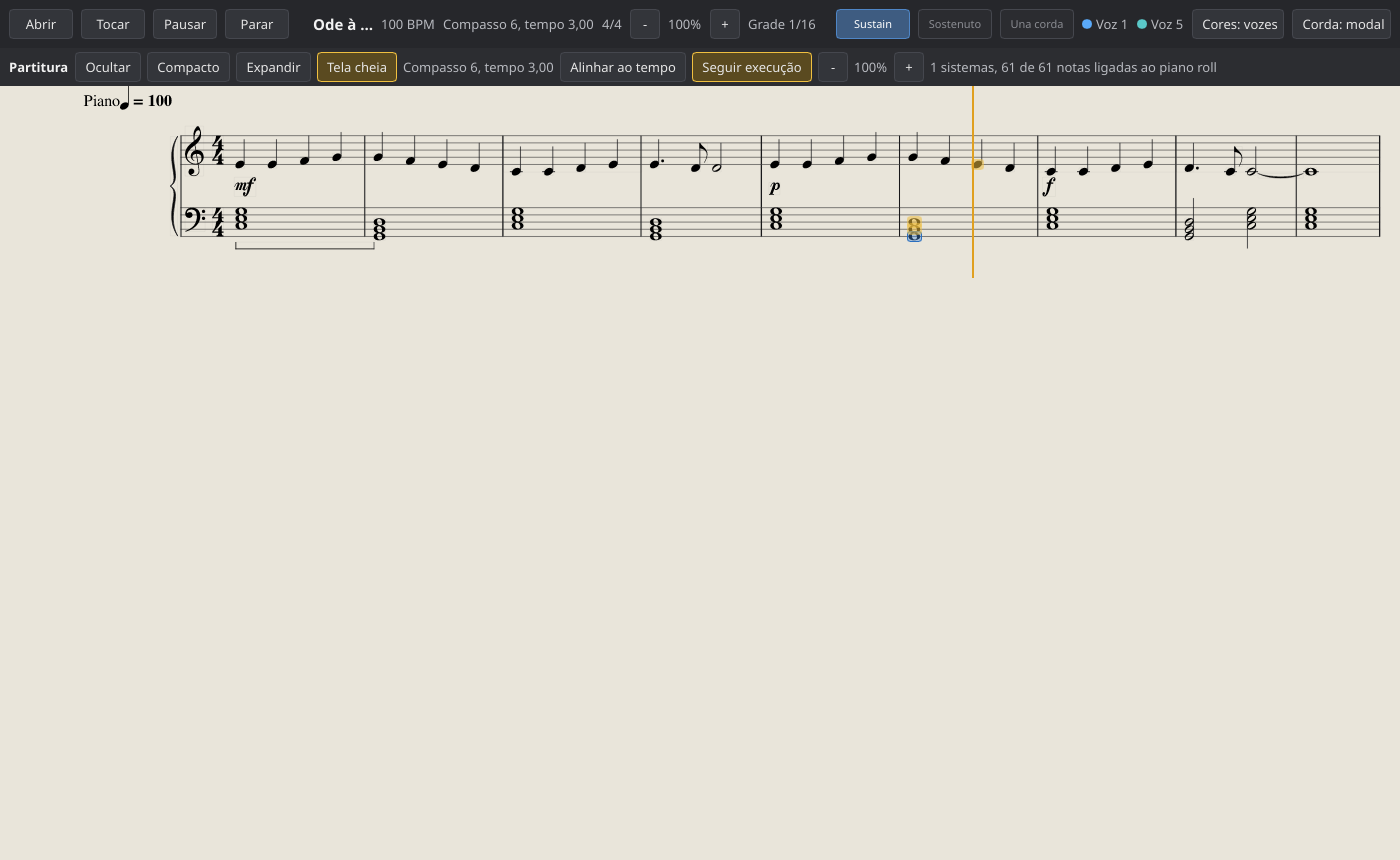
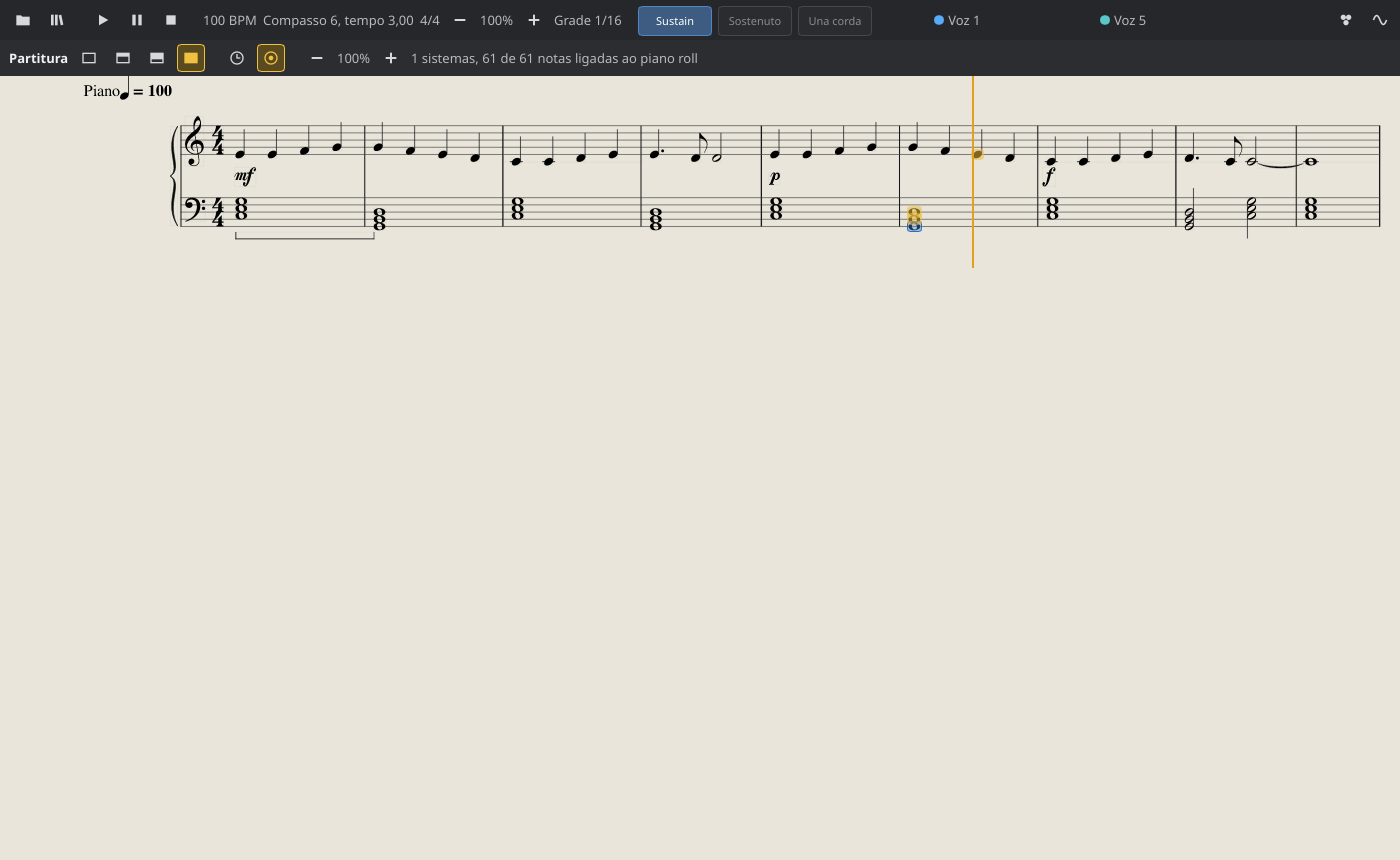
Barras com icones pequenos e titulo no painel da direita
- Abrir, acervo, transporte, zoom, cores e modelo de corda viram icones
  de 28 px; o nome aparece na barra ao passar o mouse
- barra da partitura com icones para os modos, alinhar, seguir e zoom
- titulo da peca no topo da coluna da direita, que ganha barra de rolagem
- README e capturas atualizados

Changed region(s): [[0.0, 0.0, 1.0, 0.3023], [0.86, 0.0, 1.0, 0.0605]]

diff --git a/README.md b/README.md
@@ -75,15 +75,18 @@ Dó grave enquanto a direita toca staccato):
 Visualizador temporal da partitura tocada pelo player, inspirado no piano
 roll de DAWs, em [Slint](https://slint.dev):
 
-- barra superior: abrir, acervo, tocar, pausar, parar, andamento, posição (compasso e
-  tempo), fórmula de compasso, zoom, grade, luzes dos três pedais, legenda
-  de cores, cores por voz ou por mão, modelo de corda;
+- barra superior: ícones pequenos para abrir, acervo, tocar, pausar,
+  parar, zoom, cores por voz ou por mão e modelo de corda (o nome de cada
+  ícone aparece na barra ao passar o mouse), andamento, posição (compasso e
+  tempo), fórmula de compasso, grade, luzes dos três pedais e legenda de
+  cores;
 - régua de compassos (clique para ir para aquele ponto);
 - teclado vertical das 88 teclas (as que soam ficam douradas);
 - roll: cada nota com a cor da voz (ou da mão) e o dedo escolhido pelo
   player; as já tocadas ficam apagadas, as que soam brilham; playhead
   dourado;
-- coluna da direita em abas: **Interpretação** (os quatro perfis do
+- coluna da direita, com o título da peça no topo e barra de rolagem
+  quando não cabe, em abas: **Interpretação** (os quatro perfis do
   [motor de expressão](#motor-de-expressão-e-emoção-percebida) e o plano
   Valência x Ativação), **Nota** (inspetor: nota, frequência, compasso,
   duração, voz, mão, dedo, velocity; abre sozinha ao clicar numa nota ou
@@ -116,11 +119,11 @@ duração, profundidade, se veio da partitura ou do pé e o efeito no piano.
 | clique numa nota      | detalhes no inspetor                   |
 | clique num pedal      | qual pedal, como e quando, no inspetor |
 | Interpretação         | trocar o perfil (continua do mesmo ponto da partitura) |
-| botão Abrir           | escolher um `.musicxml`/`.xml`/`.mxl` e tocar |
+| ícone Abrir (pasta)   | escolher um `.musicxml`/`.xml`/`.mxl` e tocar |
 | Áudio, Saída          | trocar a placa de som (pausa; Tocar continua dali) |
 | Áudio, Volume         | volume geral, na hora                  |
 
-O botão **Abrir** usa o diálogo de arquivos do sistema (no Linux, o do
+O ícone **Abrir** (a pasta) usa o diálogo de arquivos do sistema (no Linux, o do
 `xdg-desktop-portal`, que o Ubuntu já traz; no macOS, o nativo). A peça
 aberta passa pelo player e começa a tocar; se o arquivo não puder ser lido,
 a peça atual continua e o erro aparece no painel inferior direito.
@@ -144,13 +147,17 @@ ligaduras, pausas, dinâmicas, articulações), gravada pelo
 [Verovio](https://www.verovio.org) a partir do mesmo MusicXML e sincronizada
 com o mesmo relógio do motor de áudio:
 
-- **Ocultar / Compacto / Expandir / Tela cheia**: o compacto mostra o
+Os botões da barra da partitura são ícones (o nome aparece ao passar o
+mouse):
+
+- **Ocultar / Compacto / Expandir / Tela cheia** (uma moldura vazia, com um
+  terço, com dois terços e cheia): o compacto mostra o
   sistema atual; o expandido, vários (arraste a divisória para ajustar); a
   tela cheia esconde o piano roll. Trocar de modo nunca interrompe o som.
-- **Seguir execução**: a partitura acompanha o playhead sistema a sistema,
+- **Seguir execução** (um alvo): a partitura acompanha o playhead sistema a sistema,
   mostrando o próximo antes de a linha acabar; também segue os saltos. Um
   cursor dourado anda pela partitura entre as colunas de notas.
-- **Alinhar ao tempo** (liga/desliga): a partitura vira uma tira alinhada ao
+- **Alinhar ao tempo** (um relógio; liga/desliga): a partitura vira uma tira alinhada ao
   piano roll, com a mesma régua de tempo, o mesmo zoom e a mesma rolagem:
   cada nota fica exatamente acima da sua barra no roll e o cursor da
   partitura continua o playhead na mesma reta. As cabeças de nota ficam em
